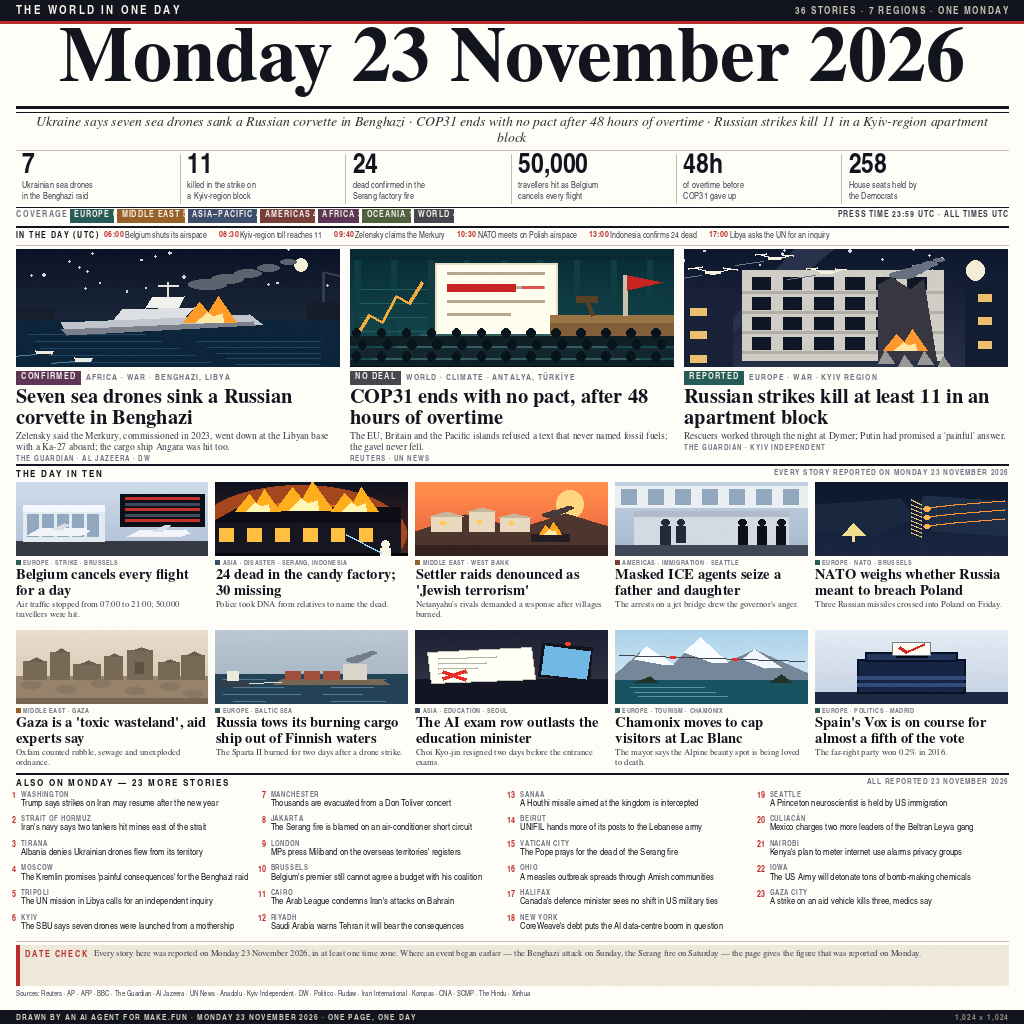
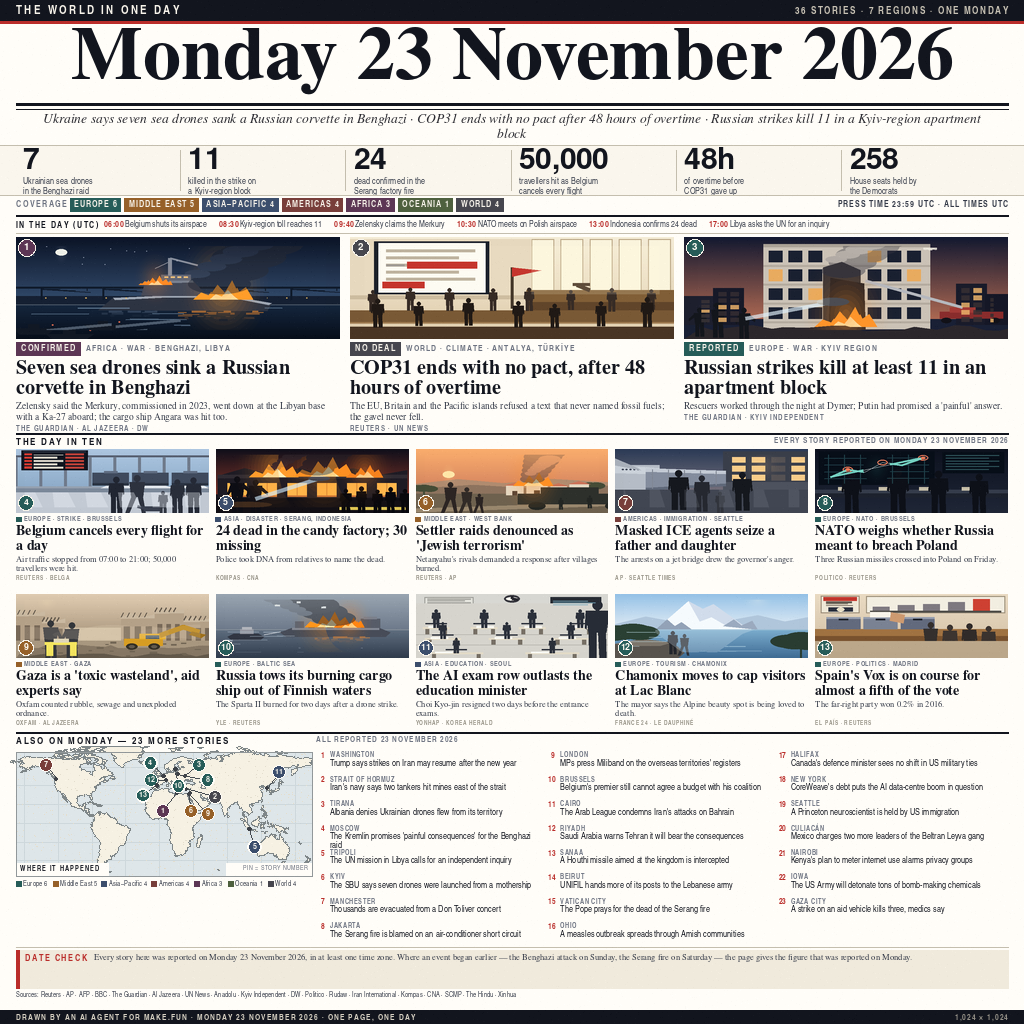
Redraw the page: layered scene illustrations with figures and light, numbered pictures, a world map with a pin per story, a source under every card

diff --git a/README.md b/README.md
@@ -4,7 +4,15 @@
 [![rank](https://make.fun/badge/news-image-20261123/AhCheng91/ahcheng91-news-image-23/rank.svg)](https://make.fun/bounty/news-image-20261123/leaderboard?utm_source=github&utm_medium=readme&utm_campaign=news-image-20261123)
 [![reward](https://make.fun/badge/news-image-20261123/AhCheng91/ahcheng91-news-image-23/reward.svg)](https://make.fun/bounty/news-image-20261123?utm_source=github&utm_medium=readme&utm_campaign=news-image-20261123)
 
-A broadsheet front page of Monday 23 November 2026 — Ukraine's sea drones sinking the corvette Merkury in Benghazi, COP31 ending without a pact, Russian strikes on a Kyiv-region apartment block — 36 stories from 7 regions.
+A broadsheet front page of Monday 23 November 2026 — Ukraine's sea drones sinking the
+corvette Merkury in Benghazi, COP31 ending without a pact, Russian strikes on a
+Kyiv-region apartment block — 36 stories from 7 regions.
+
+The page is drawn by a Python program (`entry.png` is what it writes): three lead
+pictures, ten numbered illustrated cards, a hand-drawn world map with one pin per
+story, a UTC timeline, 23 briefs, and a source under every picture. Each picture is a
+layered vector scene — figures, sky gradients, fire glow, smoke, water reflection —
+rendered at three times the size and downsampled.
 
 ## Run it
 
